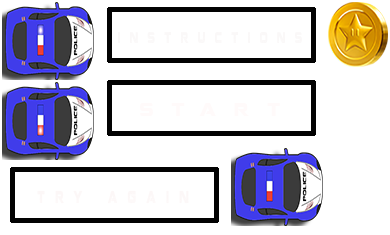
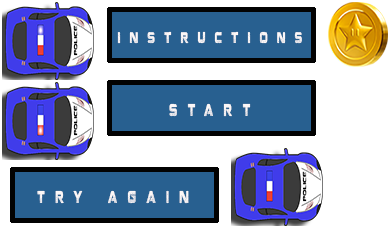
working partially

Changed region(s): [[0.2769, 0.0298, 0.8, 0.2681], [0.0308, 0.7149, 0.5538, 0.9532], [0.2769, 0.3574, 0.8, 0.566]]

diff --git a/cargame/Scripts/states/menu.ts b/cargame/Scripts/states/menu.ts
@@ -1,5 +1,14 @@
-module states {
+/// <reference path="../constants.ts" />
+/// <reference path="../objects/scoreboard.ts" />
+/// <reference path="../objects/car.ts" />
+/// <reference path="../objects/road.ts" />
+/// <reference path="../objects/coin.ts" />
+/// <reference path="../objects/redcar.ts" />
+/// <reference path="../objects/button.ts" />
+/// <reference path="../objects/label.ts" />
+module states {
     export function startButtonClicked(event: MouseEvent) {
+        console.log("start button clicked");
         stage.removeChild(game);
         car.destroy();
         game.removeAllChildren();
@@ -9,8 +18,8 @@
     }
 
     export function menuState() {
-        road.update();
-        car.update();
+        //road.update();
+        //car.update();
     }
 
     export function menu() {
@@ -27,14 +36,14 @@
         stage.cursor = "default";
 
         // Display Game Over
-        gameNameLabel = new objects.Label(stage.canvas.width / 2, 40, "Car Game");
+        gameNameLabel = new objects.Label(stage.canvas.width / 2, 40, "CAR GAME");
         game.addChild(gameNameLabel);
 
         // Display Play Again Button
         playButton = new objects.Button(stage.canvas.width / 2, 300, "startButton");
         game.addChild(playButton);
         playButton.addEventListener("click", startButtonClicked);
-
+        
         stage.addChild(game);
     }
 } 

diff --git a/cargame/Scripts/states/menu.js b/cargame/Scripts/states/menu.js
@@ -1,6 +1,15 @@
-var states;
+/// <reference path="../constants.ts" />
+/// <reference path="../objects/scoreboard.ts" />
+/// <reference path="../objects/car.ts" />
+/// <reference path="../objects/road.ts" />
+/// <reference path="../objects/coin.ts" />
+/// <reference path="../objects/redcar.ts" />
+/// <reference path="../objects/button.ts" />
+/// <reference path="../objects/label.ts" />
+var states;
 (function (states) {
     function startButtonClicked(event) {
+        console.log("start button clicked");
         stage.removeChild(game);
         car.destroy();
         game.removeAllChildren();
@@ -11,8 +20,8 @@
     states.startButtonClicked = startButtonClicked;
 
     function menuState() {
-        road.update();
-        car.update();
+        //road.update();
+        //car.update();
     }
     states.menuState = menuState;
 
@@ -30,7 +39,7 @@
         stage.cursor = "default";
 
         // Display Game Over
-        gameNameLabel = new objects.Label(stage.canvas.width / 2, 40, "Car Game");
+        gameNameLabel = new objects.Label(stage.canvas.width / 2, 40, "CAR GAME");
         game.addChild(gameNameLabel);
 
         // Display Play Again Button

diff --git a/cargame/Scripts/objects/car.ts b/cargame/Scripts/objects/car.ts
@@ -1,9 +1,12 @@
-module objects {
+/// <reference path="../managers/asset.ts" />
+module objects {
     //car class
+    //var carSound;
     export class Car extends objects.GameObjects { 
         stage: createjs.Stage;
         game: createjs.Container;
-        carSound: createjs.SoundInstance;
+        //carSound: createjs.SoundInstance;
+        //carSound: createjs.SoundInstance;
         constructor(stage: createjs.Stage, game: createjs.Container) {
             this.stage = stage;
             this.game = game;
@@ -23,7 +26,9 @@
         }
 
         destroy() {
-            this.carSound.stop();
+            //this.carSound.pause();
+            createjs.Sound.stop();
+            //this.carSound.stop();
             game.removeChild(this);
         }
     } //EO car class

diff --git a/cargame/Scripts/objects/car.js b/cargame/Scripts/objects/car.js
@@ -4,11 +4,15 @@
     __.prototype = b.prototype;
     d.prototype = new __();
 };
+/// <reference path="../managers/asset.ts" />
 var objects;
 (function (objects) {
     //car class
+    //var carSound;
     var Car = (function (_super) {
         __extends(Car, _super);
+        //carSound: createjs.SoundInstance;
+        //carSound: createjs.SoundInstance;
         function Car(stage, game) {
             this.stage = stage;
             this.game = game;
@@ -28,7 +32,10 @@ var objects;
         };
 
         Car.prototype.destroy = function () {
-            this.carSound.stop();
+            //this.carSound.pause();
+            createjs.Sound.stop();
+
+            //this.carSound.stop();
             game.removeChild(this);
         };
         return Car;

diff --git a/cargame/Scripts/game.ts b/cargame/Scripts/game.ts
@@ -37,7 +37,12 @@ function init(): void {
     stage = new createjs.Stage(document.getElementById("canvas"));
     stage.enableMouseOver(20);
     createjs.Ticker.setFPS(60);
-    createjs.Ticker.addEventListener("tick", gameloop);
+    createjs.Ticker.addEventListener("tick", gameLoop);
+
+    optimizeForMobile();
+
+    currentState = constants.MENU_STATE;
+    changeState(currentState);
 }
 
 // Add touch support for mobile devices
@@ -48,7 +53,7 @@ function optimizeForMobile() {
 }
 
 //game loop funcction
-function gameloop(event): void {
+function gameLoop(event): void {
     currentStateFunction();
     stage.update();
 }

diff --git a/cargame/Scripts/game.js b/cargame/Scripts/game.js
@@ -36,7 +36,12 @@ function init() {
     stage = new createjs.Stage(document.getElementById("canvas"));
     stage.enableMouseOver(20);
     createjs.Ticker.setFPS(60);
-    createjs.Ticker.addEventListener("tick", gameloop);
+    createjs.Ticker.addEventListener("tick", gameLoop);
+
+    optimizeForMobile();
+
+    currentState = constants.MENU_STATE;
+    changeState(currentState);
 }
 
 // Add touch support for mobile devices
@@ -47,7 +52,7 @@ function optimizeForMobile() {
 }
 
 //game loop funcction
-function gameloop(event) {
+function gameLoop(event) {
     currentStateFunction();
     stage.update();
 }

diff --git a/cargame/index.html b/cargame/index.html
@@ -29,6 +29,12 @@
     <script src="Scripts/objects/redcar.js"></script>
     <script src="Scripts/objects/road.js"></script>
     <script src="Scripts/objects/scoreboard.js"></script>
+    <script src="Scripts/objects/button.js"></script>
+    <script src="Scripts/objects/label.js"></script>
+    <script src="Scripts/managers/collision.js"></script>
+    <script src="Scripts/states/menu.js"></script>
+    <script src="Scripts/states/play.js"></script>
+    <script src="Scripts/states/gameover.js"></script>
     <script src="Scripts/game.js"></script>
 </body>
 </html>

diff --git a/cargame/Scripts/states/play.ts b/cargame/Scripts/states/play.ts
@@ -5,6 +5,7 @@
 /// <reference path="../objects/scoreboard.ts" />
 module states {
     export function playState() {
+        //console.log("play state fired");
         road.update();
         coin.update();
         car.update();
@@ -47,7 +48,7 @@ module states {
         scoreboard = new objects.Scoreboard(stage, game);
 
         // Instantiate Collision Manager
-        //collision = new managers.Collision(plane, island, clouds, scoreboard);
+        collision = new managers.Collision(car, coin, redcar, scoreboard);
 
         stage.addChild(game);
     }

diff --git a/cargame/Scripts/states/play.js b/cargame/Scripts/states/play.js
@@ -6,6 +6,7 @@
 var states;
 (function (states) {
     function playState() {
+        //console.log("play state fired");
         road.update();
         coin.update();
         car.update();
@@ -48,7 +49,8 @@ var states;
         scoreboard = new objects.Scoreboard(stage, game);
 
         // Instantiate Collision Manager
-        //collision = new managers.Collision(plane, island, clouds, scoreboard);
+        collision = new managers.Collision(car, coin, redcar, scoreboard);
+
         stage.addChild(game);
     }
     states.play = play;

diff --git a/cargame/Scripts/managers/asset.js b/cargame/Scripts/managers/asset.js
@@ -9,7 +9,7 @@
     ];
 
     var spriteSheetData = {
-        "images": ["assets/imgMap.png"],
+        "images": ["assets/images/imgMap.png"],
         "frames": [
             [2, 2, 95, 78],
             [2, 82, 95, 78],

diff --git a/cargame/Scripts/managers/asset.ts b/cargame/Scripts/managers/asset.ts
@@ -8,7 +8,7 @@
         ]
 
     var spriteSheetData = {
-        "images": ["assets/imgMap.png"],
+        "images": ["assets/images/imgMap.png"],
         "frames": [
 
             [2, 2, 95, 78],
